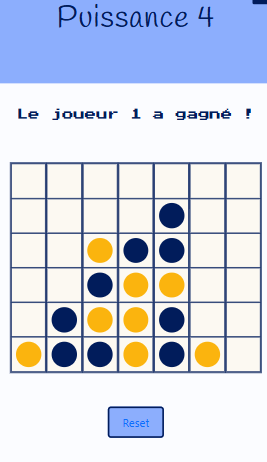
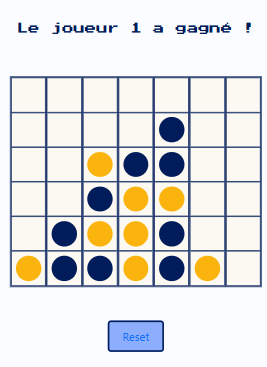
bento grid resize picture and add link_to

diff --git a/app/assets/stylesheets/pages/projects/_projects.scss b/app/assets/stylesheets/pages/projects/_projects.scss
@@ -15,8 +15,7 @@
 
 
 .games__bento-grid {
-  width: 80%;
-  aspect-ratio: 1/1;
+  width: 50%;
   margin: 0 auto;
   display: grid;
   grid-template-rows: repeat(6, auto);
@@ -27,14 +26,15 @@
 
     img {
       border: 2px solid $major-dark;
-      border-radius: 0.5rem;
+      border-radius: 1rem;
       box-shadow: 2px 2px 2px 0 $shadow;
       width: 100%;
       height: 100%;
       object-fit: cover;
 
       &:hover {
-
+        scale: 1.05;
+        cursor: pointer;
       }
     }
   }
@@ -58,5 +58,9 @@
 
   .connect4 {
     grid-area: 3 / 5 / 6 / 7;
+  }
+
+  .next {
+    grid-area: 6 / 5 / 7 / 7;
   }
 }
